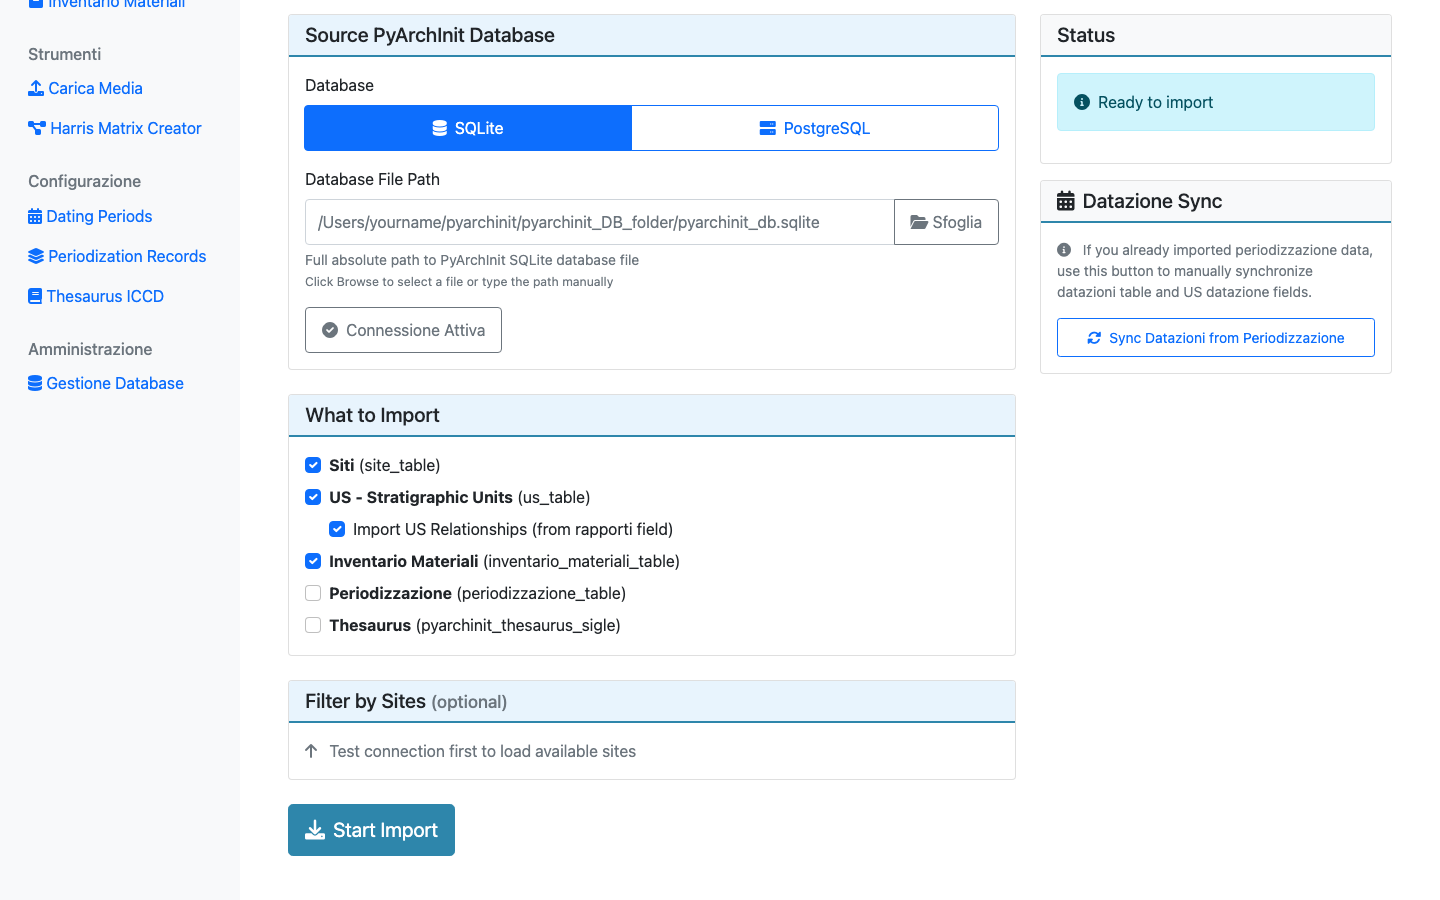
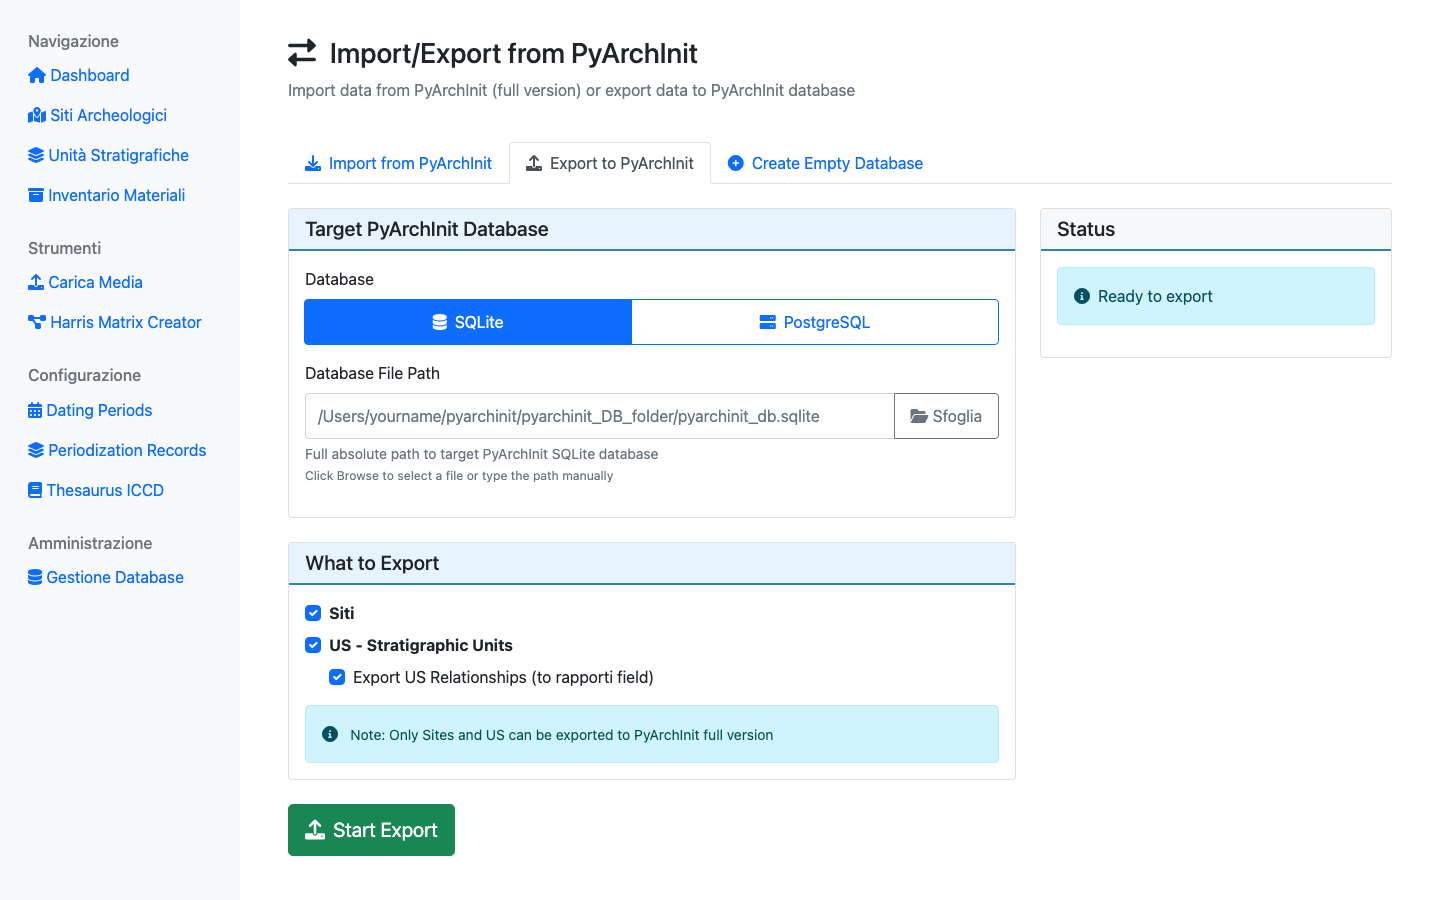
docs: Fix PyArchInit Import/Export section screenshots
Fixed screenshots 055 and 056 that were showing incorrect sections:
- 055_pyarchinit_export_section.png now correctly shows Export section
- 056_pyarchinit_create_db.png now correctly shows Create Database section

Previously both screenshots were showing the Import section due to
incorrect scrolling/tab navigation in the capture script.

Added fix_pyarchinit_ie_sections.py script that uses tab clicks
instead of scrolling to capture the correct sections.

🤖 Generated with [Claude Code](https://claude.com/claude-code)

diff --git a/scripts/fix_pyarchinit_ie_sections.py b/scripts/fix_pyarchinit_ie_sections.py
@@ -1,0 +1,74 @@
+#!/usr/bin/env python3
+"""
+Fix PyArchInit Import/Export section screenshots with correct scrolling
+"""
+from playwright.sync_api import sync_playwright
+import time
+import os
+
+BASE_URL = "http://localhost:5001"
+SCREENSHOT_DIR = "docs/images/webapp"
+
+def main():
+    with sync_playwright() as p:
+        browser = p.chromium.launch(headless=True)
+        context = browser.new_context(viewport={"width": 1440, "height": 900})
+        page = context.new_page()
+
+        # Login first
+        print("🔐 Logging in...")
+        page.goto(f"{BASE_URL}/auth/login")
+        page.fill('input[name="username"]', 'admin')
+        page.fill('input[name="password"]', 'admin')
+        page.click('button[type="submit"]')
+        time.sleep(3)
+        print("  ✓ Logged in\n")
+
+        # Set language to English
+        page.goto(f"{BASE_URL}/auth/set-language/en")
+        time.sleep(2)
+
+        # Navigate to PyArchInit I/E page
+        print("📸 Navigating to PyArchInit Import/Export page...")
+        page.goto(f"{BASE_URL}/pyarchinit-import-export/", wait_until="networkidle")
+        time.sleep(4)
+
+        # Click on the Export tab to ensure it's visible
+        print("  📸 Capturing Export section (055)...")
+        try:
+            # Click the Export to PyArchInit tab
+            page.click('text="Export to PyArchInit"')
+            time.sleep(2)
+
+            # Scroll to show the export section
+            page.evaluate("window.scrollTo(0, 800)")
+            time.sleep(2)
+
+            screenshot_path = os.path.join(SCREENSHOT_DIR, "055_pyarchinit_export_section.png")
+            page.screenshot(path=screenshot_path, full_page=False)
+            print(f"     ✓ Saved: {screenshot_path}")
+        except Exception as e:
+            print(f"     ✗ Error: {e}")
+
+        # Click on the Create Database tab
+        print("  📸 Capturing Create Database section (056)...")
+        try:
+            # Click the Create Empty Database tab
+            page.click('text="Create Empty Database"')
+            time.sleep(2)
+
+            # Scroll to show the create DB section
+            page.evaluate("window.scrollTo(0, 800)")
+            time.sleep(2)
+
+            screenshot_path = os.path.join(SCREENSHOT_DIR, "056_pyarchinit_create_db.png")
+            page.screenshot(path=screenshot_path, full_page=False)
+            print(f"     ✓ Saved: {screenshot_path}")
+        except Exception as e:
+            print(f"     ✗ Error: {e}")
+
+        browser.close()
+        print("\n✅ Recapture complete!")
+
+if __name__ == "__main__":
+    main()
